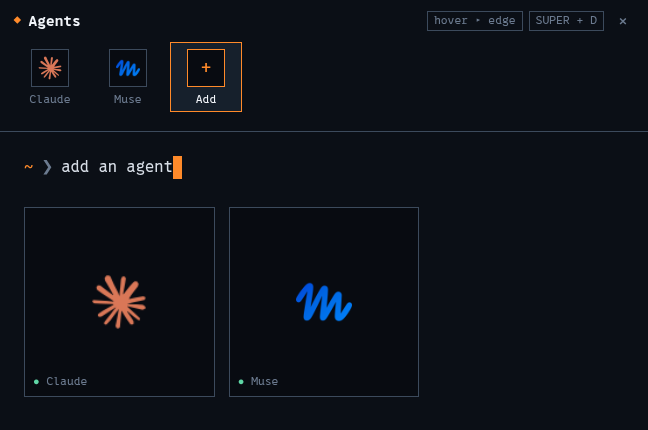
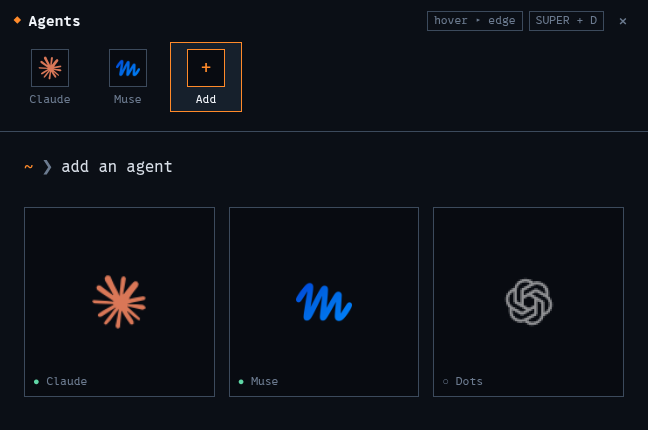
0.2.1: drop Google Tasks; document ChatGPT Dots as untested
- Remove Google Tasks
- README: status column and an untested note for ChatGPT Dots, which was
  added from public information without an account to try it
- Fresh preview

Changed region(s): [[0.7716, 0.6349, 0.8642, 0.7558], [0.679, 0.8767, 0.7407, 0.907], [0.2469, 0.3628, 0.2778, 0.4233]]

diff --git a/README.md b/README.md
@@ -8,12 +8,17 @@ personal agents, already loaded and signed in, restyled to look like the rest
 of your Omarchy desktop: your theme's colors, your monospace font, square
 corners. Switch themes and the drawer follows.
 
-| Agent | Web app | Theme |
-| --- | --- | --- |
-| [Claude Duet](https://claude.ai/duet) | `claude.ai/duet` | full |
-| [Muse](https://muse.ai) | `muse.ai` | full |
-| [ChatGPT Dots](https://openai.com/index/introducing-dots/) | `chatgpt.com/dots` | base skin |
-| [Google Tasks](https://tasks.google.com) | `tasks.google.com` | base skin |
+| Agent | Web app | Theme | Status |
+| --- | --- | --- | --- |
+| [Claude Duet](https://claude.ai/duet) | `claude.ai/duet` | full | tested |
+| [Muse](https://muse.ai) | `muse.ai` | full | tested |
+| [ChatGPT Dots](https://openai.com/index/introducing-dots/) | `chatgpt.com/dots` | base skin | **untested** |
+
+> **ChatGPT Dots is untested.** It was added from public information (Dots
+> needs a ChatGPT Pro or Business Premium plan) and the author has no
+> account: its window opens and docks correctly, but nobody has used it past
+> the sign-in page here, and it only gets the base skin. If you use Dots, an
+> issue or pull request with what works (and a site theme) is very welcome.
 
 Turn agents on and off from the drawer's home page (**+ Add**), and add your
 own in one line (see [Adding an agent](#adding-an-agent)). "Base skin" means
@@ -130,7 +135,7 @@ Any agent with a web app works. Put it in `~/.config/agents-drawer/agents.json`:
 
 and run `agents-drawer build`. It shows up on the home page; click it and
 sign in. Entries with the id of a shipped agent replace it, and
-`{ "id": "tasks", "disabled": true }` hides one. Optional fields: `label`
+`{ "id": "dots", "disabled": true }` hides one. Optional fields: `label`
 (the short name under the logo), `hosts` (extra domains the app lives on),
 `icon` (otherwise the site's own favicon, once it has loaded once) and
 `theme`.
